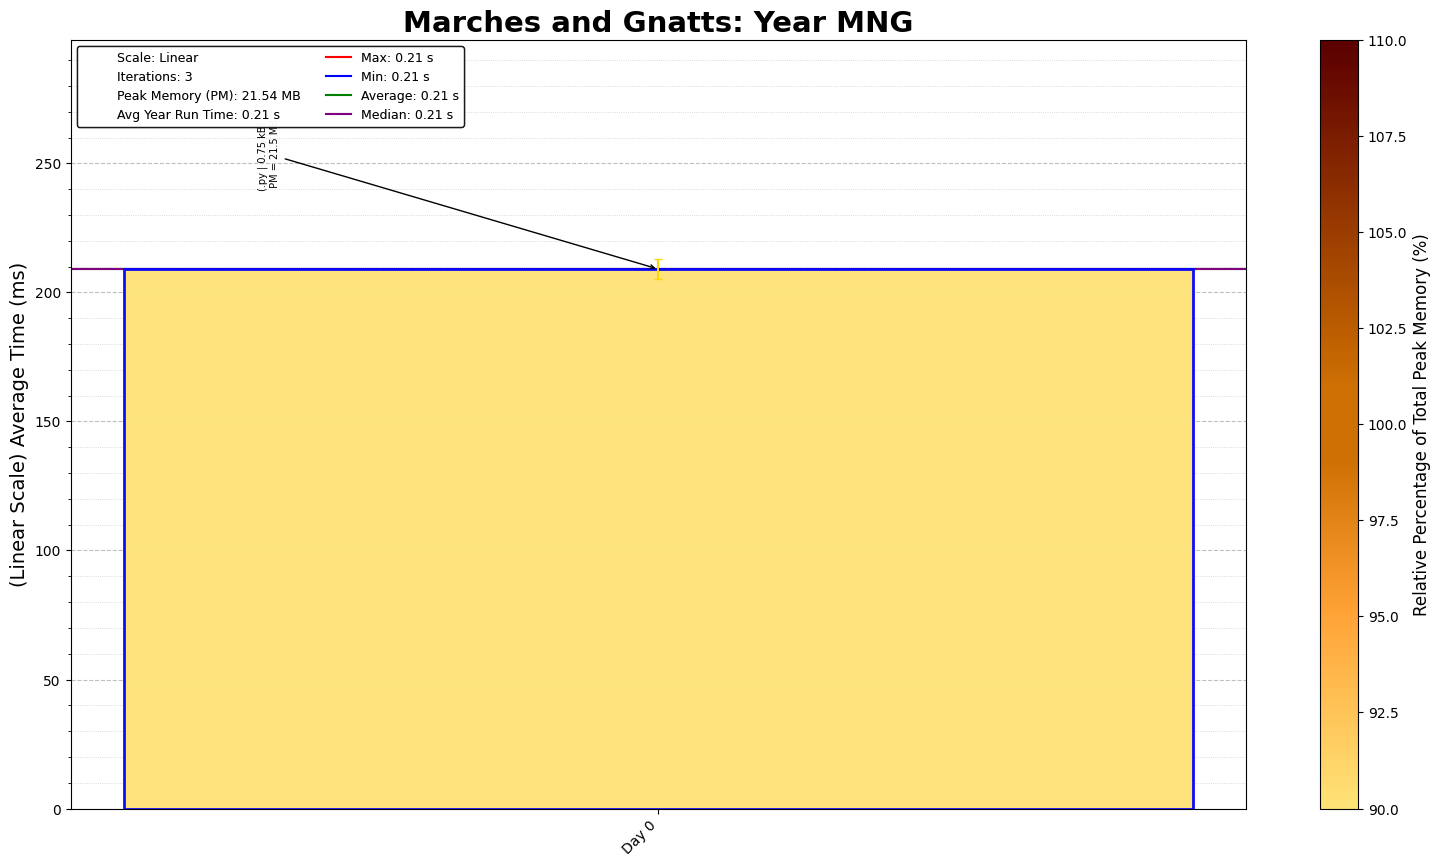
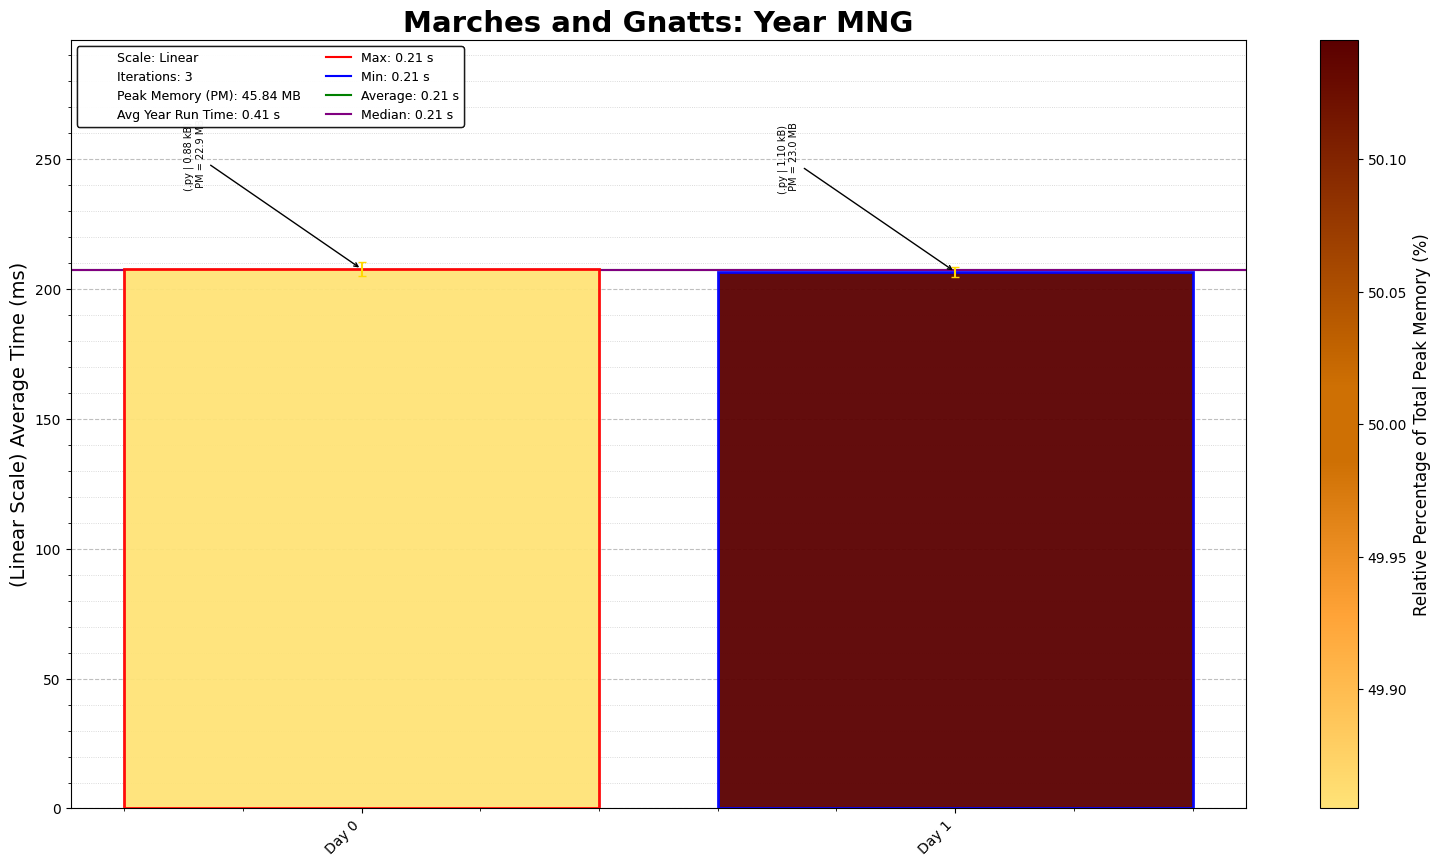
MNG Quest 01: Unary Addition

diff --git a/MNG/01/MNGDay01.py b/MNG/01/MNGDay01.py
@@ -1,0 +1,40 @@
+"""Marches And Gnatts - Puzzle 1
+Solution Started: Jul 26, 2025
+Puzzle Link: https://mng.quest/quest/1/unary-addition
+Solution by: Abbas Moosajee
+Brief: [Unary Addition]
+"""
+
+#!/usr/bin/env python3
+import os, re, copy, time, sys
+from pathlib import Path
+
+# Add the TuringMachineSim folder to path
+turing_path = Path(__file__).resolve().parent.parent / "TuringMachineSim"
+sys.path.insert(0, str(turing_path))
+
+from TuringModules import TuringMachine, TuringGUI
+
+# Allows for Multiple additions in same tape, more holistic.
+# Orignal Solution: 57,954 Steps MNG
+add_rules_v1 = """
+    INIT | FIND _ R
+    FIND | FIND | R
+    FIND + FIND | R
+    FIND _ HALT _ R
+    """
+
+# Only single addition, stops at first +, fastest solution.
+# Final Solution: 28,143 Steps MNG
+add_rules = """
+    INIT | FIND _ R
+    FIND | FIND | R
+    FIND + HALT | R
+    """
+
+add_tape = "|||+||||"
+
+if __name__ == "__main__":
+    _, results, used_resources = TuringMachine(add_rules).run_machine(add_tape, play_type = 0, visualize=True)
+    print_info = results + [""] + used_resources
+    print("\n".join(print_info))

diff --git a/MNG/00/MNGDay00.py b/MNG/00/MNGDay00.py
@@ -14,8 +14,8 @@ from pathlib import Path
 turing_path = Path(__file__).resolve().parent.parent / "TuringMachineSim"
 sys.path.insert(0, str(turing_path))
 
-from TuringMachine import TuringMachine
-from TuringGUI import TuringGUI
+from TuringModules import TuringMachine, TuringGUI
+
 
 init_rules = """
     INIT | FIND | R
@@ -30,4 +30,4 @@ if __name__ == "__main__":
     print_info = results + [""] + used_resources
     print("\n".join(print_info))
 
-    _, results, used_resources = TuringGUI(init_rules).run_simulator(init_tape)
+    # _, results, used_resources = TuringGUI(init_rules).run_simulator(init_tape)

diff --git a/MNG/ReadME_MNG.md b/MNG/ReadME_MNG.md
@@ -8,3 +8,4 @@ A different spin on fairly basic coding problems, by using a mechanical Turing M
 
 ## Challenges
 - **Quest 00 - Binary Increment**: Increase the number represented on a tape by one.
+- **Quest 01 - Unary Addition**: Probably the most basic of mathematical functions, addition yet can be made so complicated.
